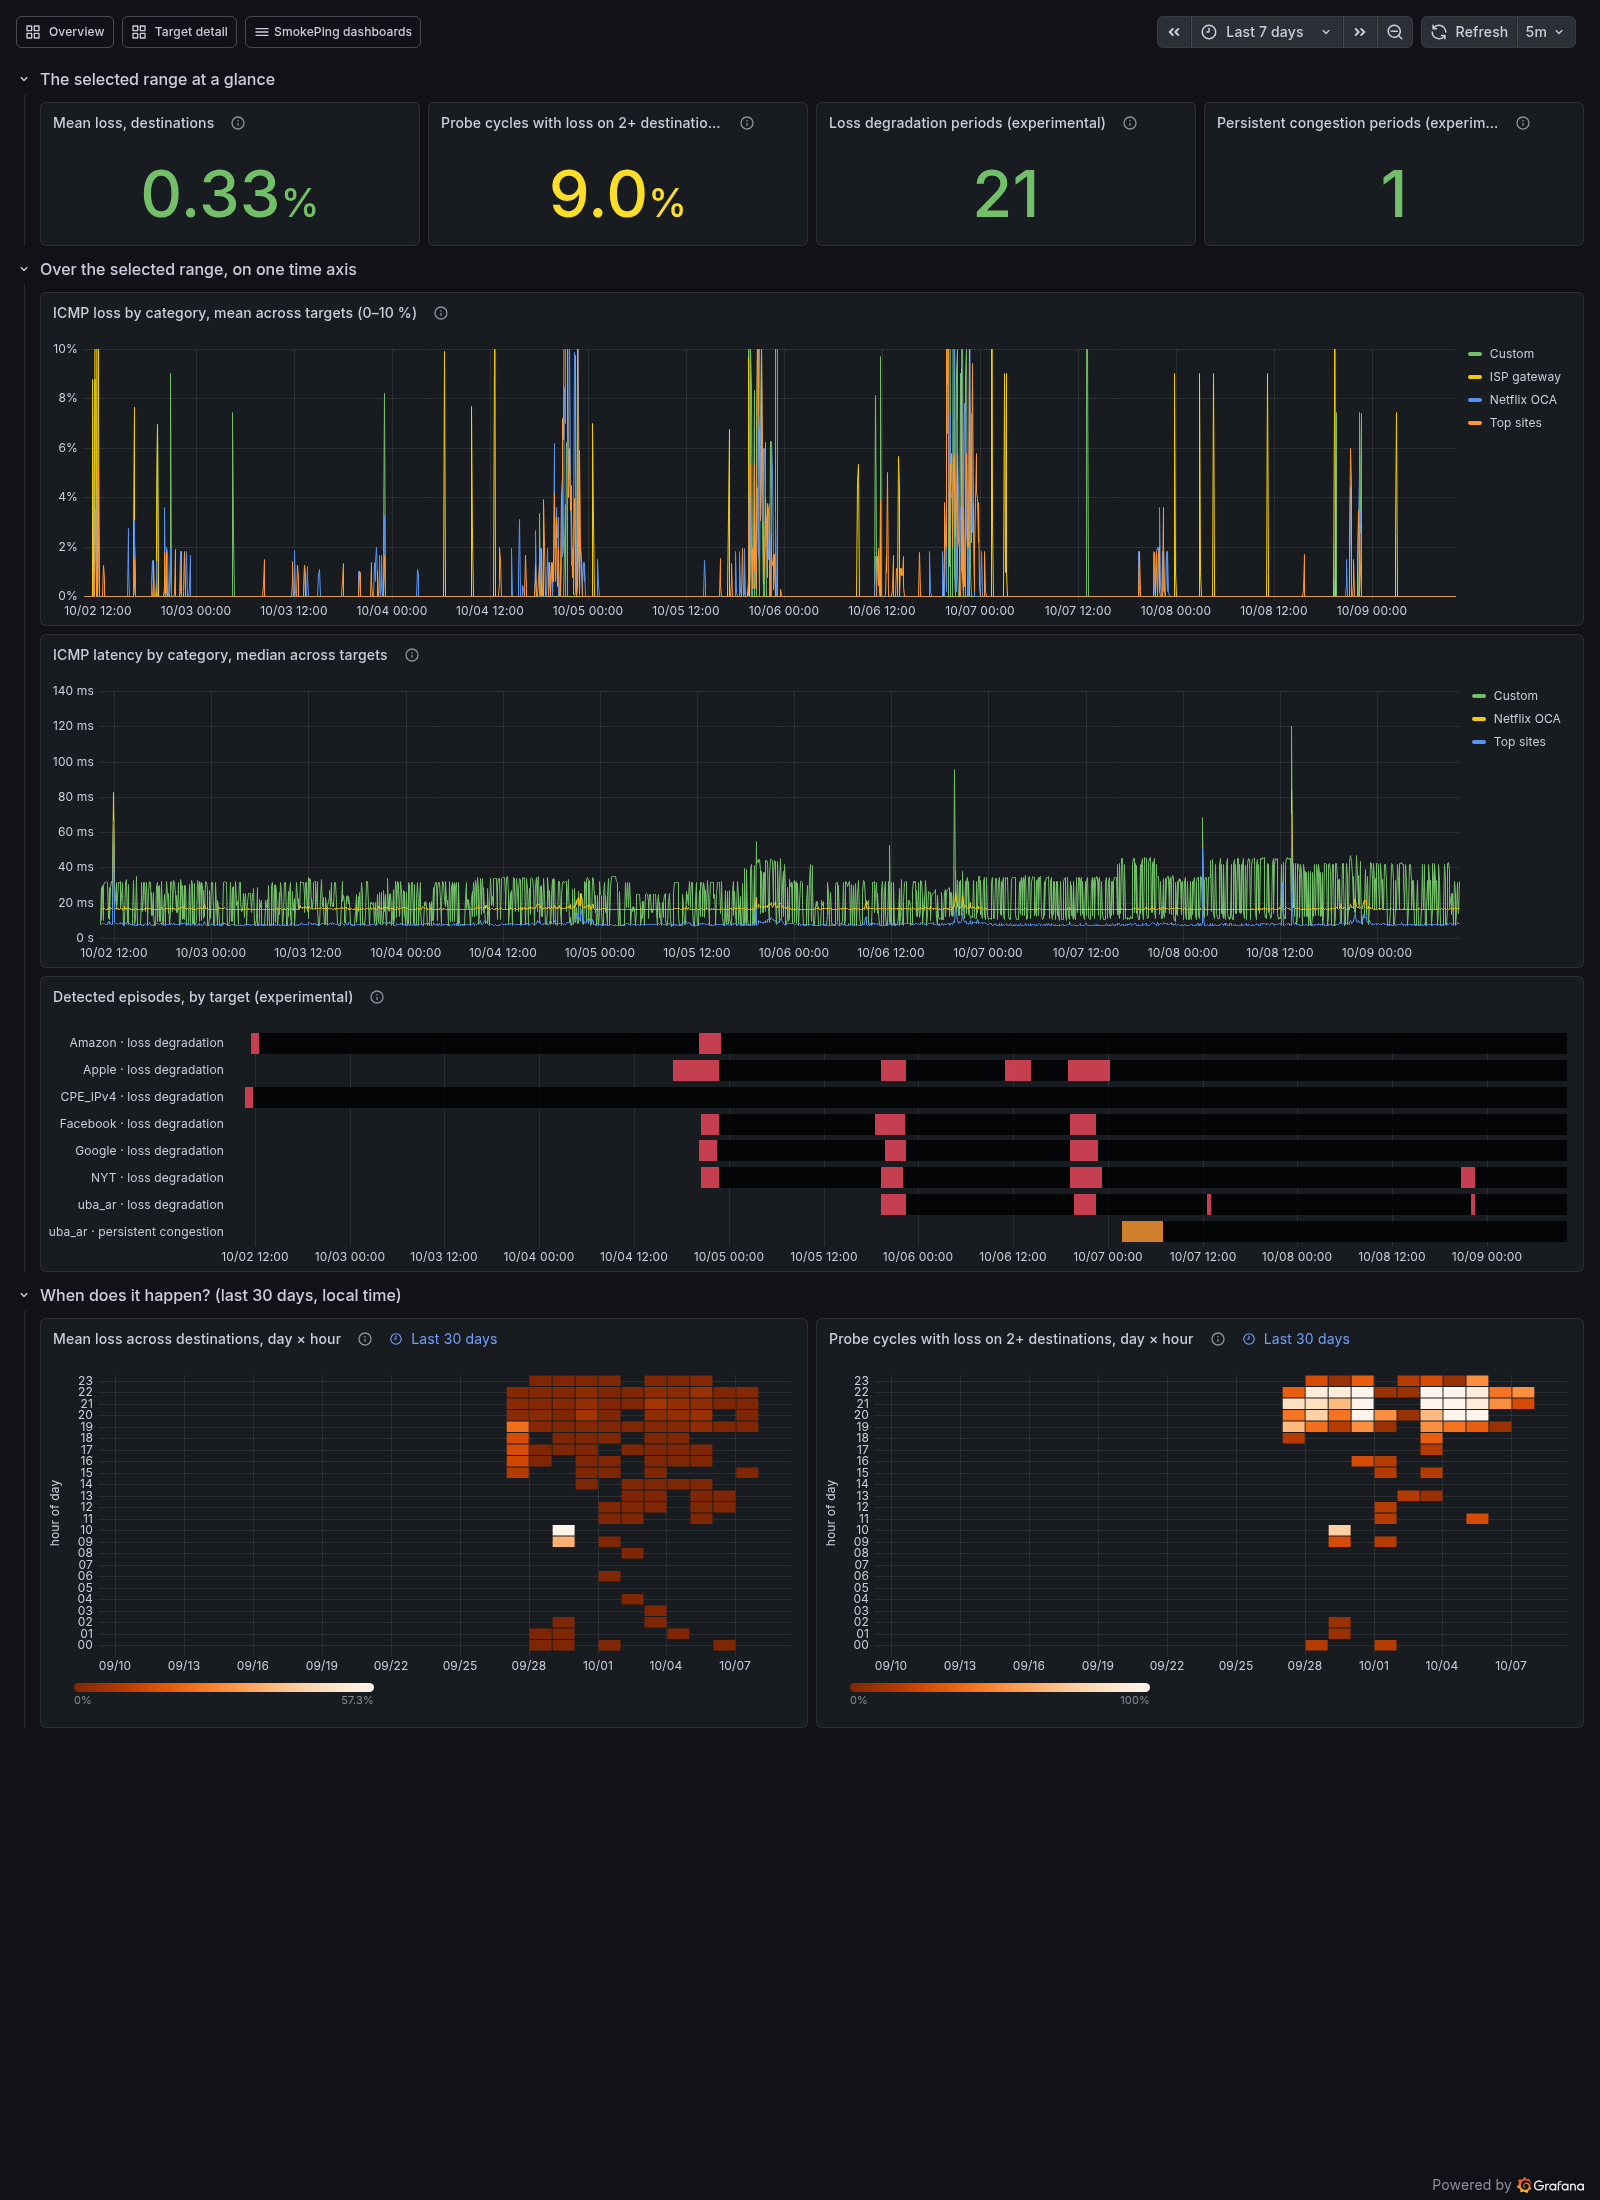
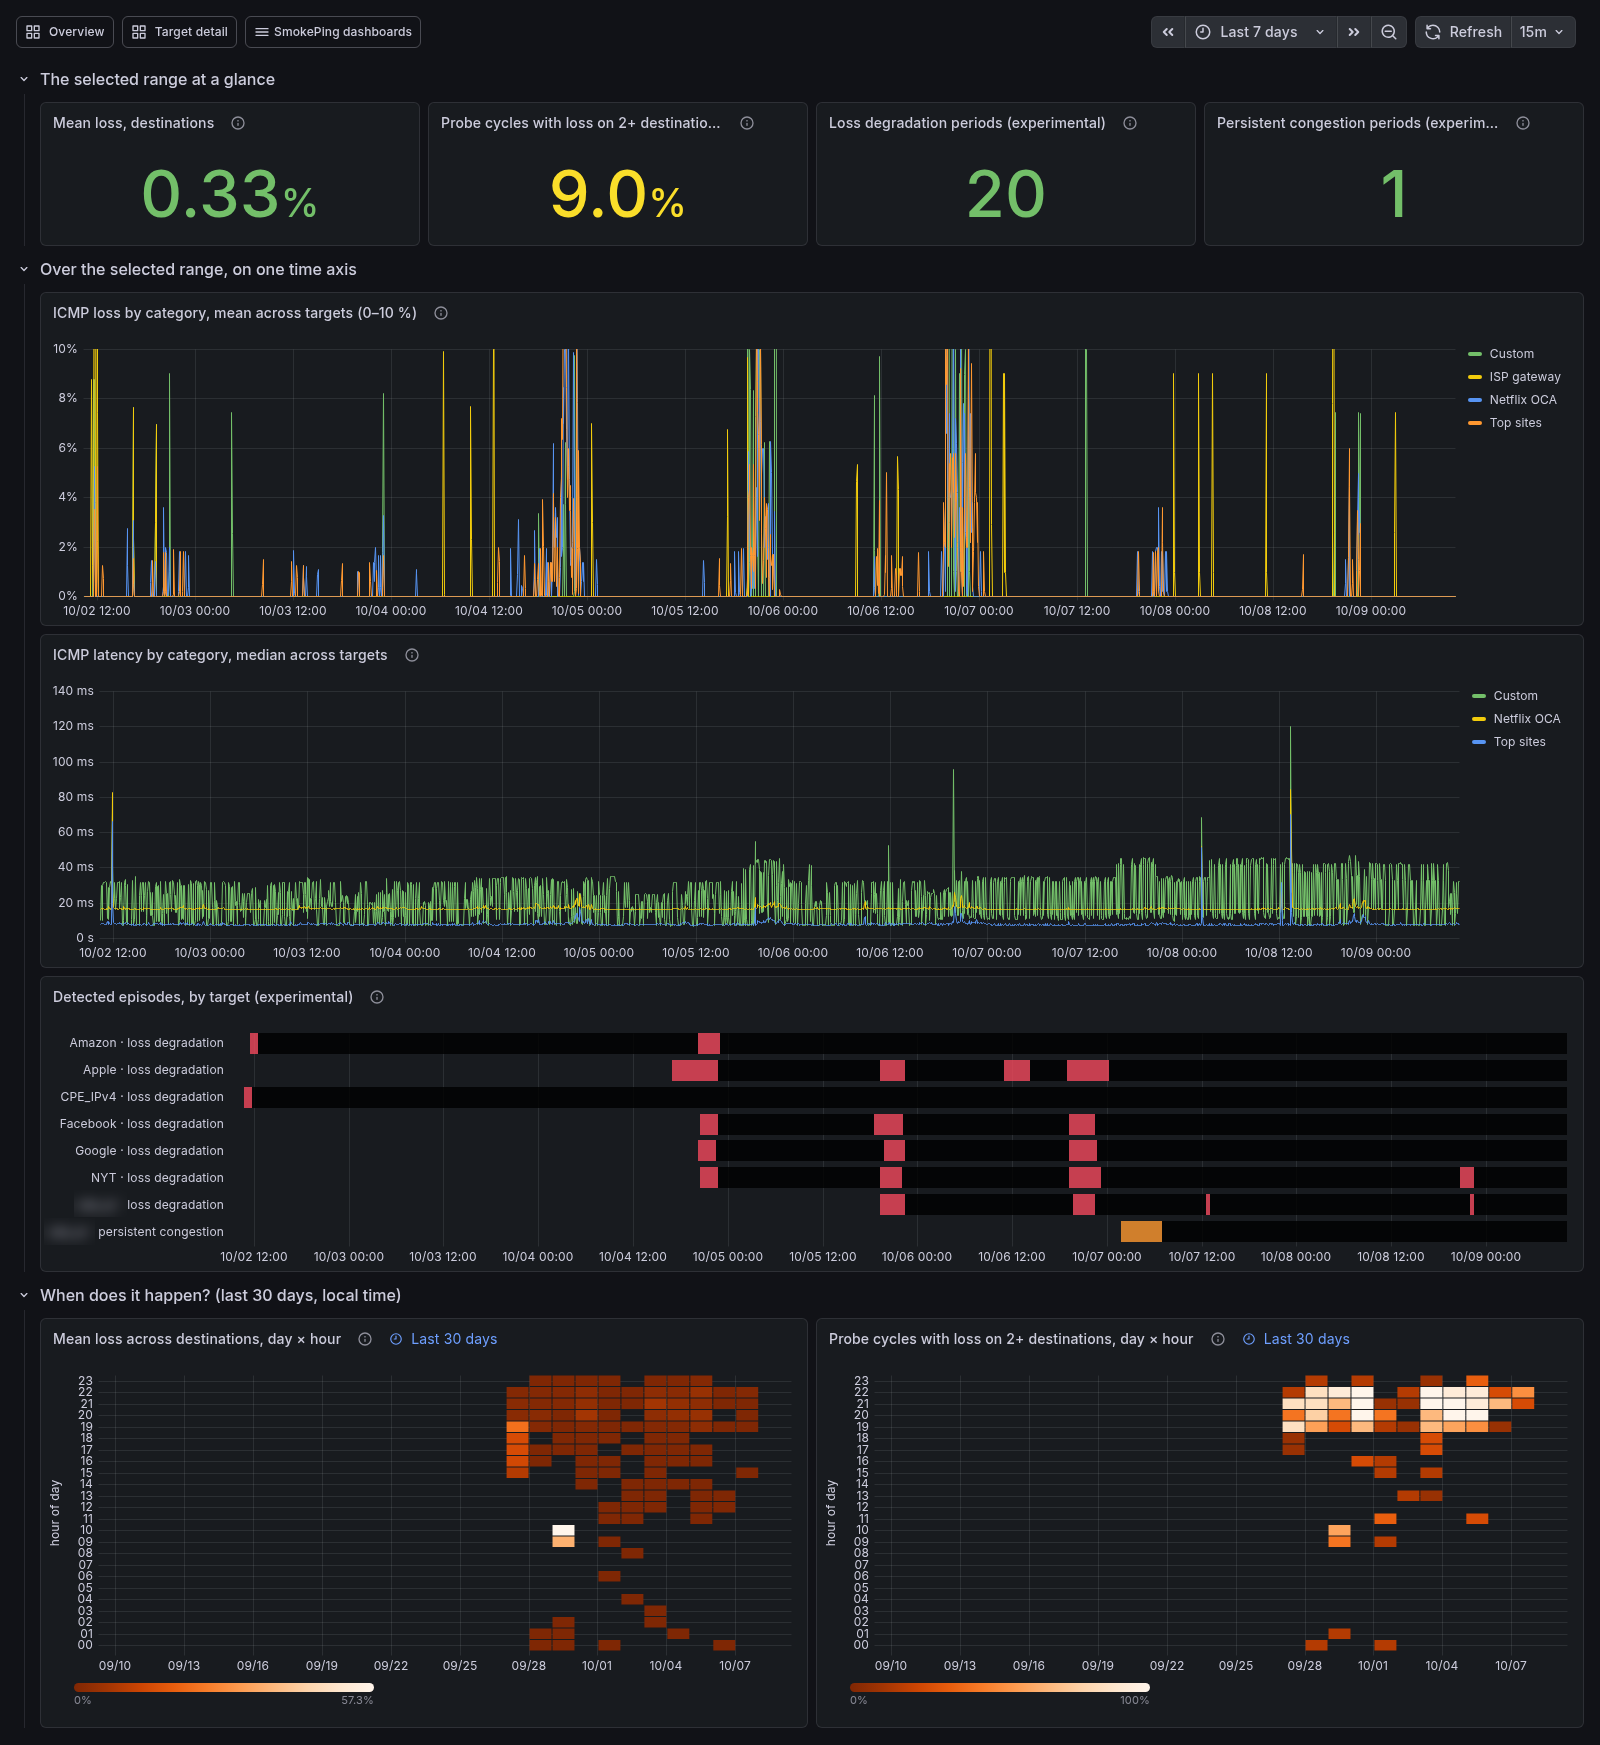
fix(grafana): review -- tiles count destination periods in range, cycles stamped at their start
Period tiles use the timeline's lookback and end filter and leave out the
ISP gateway and the DNS wizard; the timeline keeps every target and says
so. The 2+ destinations heatmap stamps 5-minute cycles at their start (an
end-stamped cycle landed in the next hour's cell). An end sorts before a
start at the same second. Refresh 15m for the 30-day heatmaps. Docs say
which panels keep the gateway and that a cycle is the default step.
Custom target labels blurred in the screenshot.

diff --git a/docs/connectivity-quality.md b/docs/connectivity-quality.md
@@ -19,8 +19,8 @@ set: Pro with ClickHouse does not have it.
 | --- | --- |
 | Mean loss, destinations | Share of pings lost across every destination over the range |
 | Probe cycles with loss on 2+ destinations | Share of 5-minute cycles in which at least two destinations lost packets at once |
-| Loss degradation periods | Periods the inference module found, when it is on |
-| Persistent congestion periods | Periods Jitterbug labeled congested, when it is on |
+| Loss degradation periods | Periods the inference module found on destinations that overlap the range, when it is on |
+| Persistent congestion periods | Periods Jitterbug labeled congested on destinations that overlap the range, when it is on |
 
 "Destinations" leaves out two kinds of target. The **ISP gateway**
 rate-limits ICMP and has a loss floor of its own. The **DNS wizard's**
@@ -30,23 +30,30 @@ rather than the connection.
 
 The second tile is usually the more telling one. One destination losing
 packets is that destination's problem. Two or more losing in the same cycle
-point at something they share: the house, the line or the ISP.
+point at something they share: the house, the line or the ISP. A cycle here
+is a 5-minute window, the default probe step. With a different
+[frequency](measurement-frequency.md), the share is still comparable from
+one day to the next, but it is not a count of probe rounds.
 
 ## On one time axis
 
 - **ICMP loss by category (0–10 %).** This is the Overview's loss panel
   zoomed to the range where everyday loss lives. A cut above 10 % runs off
   the top, and the Overview shows the full scale. Several categories rising
-  together is the link; one alone is its destinations.
+  together is the link; one alone is its destinations. Unlike the tiles,
+  this chart keeps the ISP gateway's line: it sits on its own floor, and a
+  band the gateway does not share is beyond the access link.
 - **ICMP latency by category.** The median of the targets' medians, per kind
   of destination. The ISP gateway is left out: it answers ICMP from its
   control plane, whose spikes of hundreds of milliseconds would flatten
   every other line. The Overview's *Toward the ISP* panel charts it.
 - **Detected episodes, by target (experimental).** What the
   [inference module](inference.md) found: red is loss degradation, orange is
-  persistent congestion. These are detections, not confirmations. Compare
-  them with the two panels above before believing one. The panel is empty
-  unless the module is on (`sudo smoking-pi enable inference`).
+  persistent congestion. Every target the module analyzes has a row, the
+  ISP gateway included, so you can see whether the first hop moved too.
+  These are detections, not confirmations. Compare them with the two panels
+  above before believing one. The panel is empty unless the module is on
+  (`sudo smoking-pi enable inference`).
 
 ## When does it happen?
 
